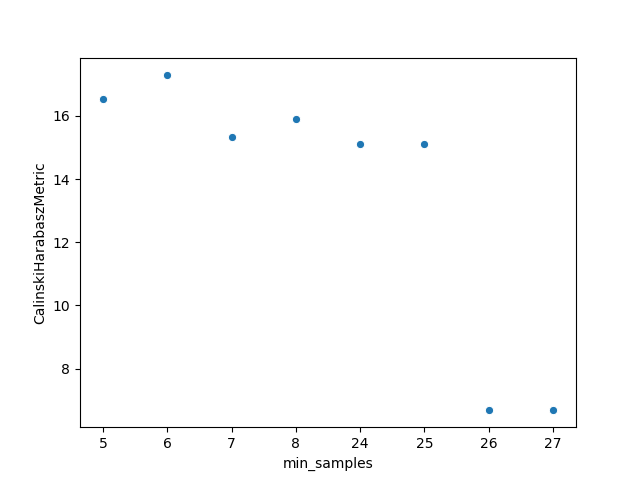
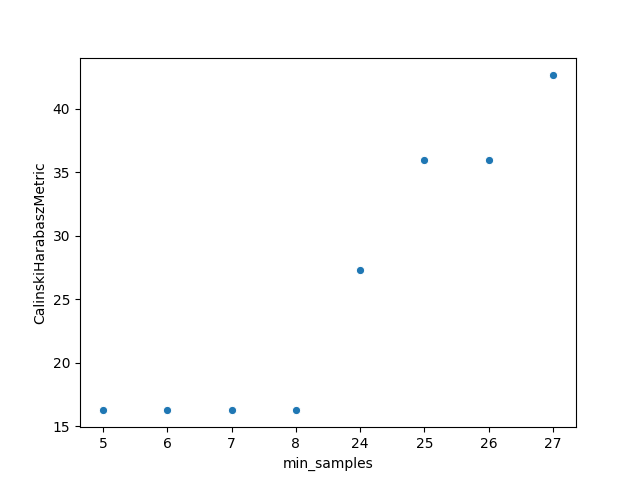
tag2

diff --git a/src/modelProcessing/modelAlgorithms/algorithms/dbscan.py b/src/modelProcessing/modelAlgorithms/algorithms/dbscan.py
@@ -7,11 +7,11 @@ class DBSCAN(AlgorithmBaseGroup):
     def __init__(self, conf):
         super().__init__(conf)
         self.min_samples = int(conf.get_entry('min_samples'))
-        self.leaf_size = int(conf.get_entry('leaf_size'))
+        self.eps = float(conf.get_entry('eps'))
         self.algorithm = conf.get_entry('algorithm')
 
     def train(self):
-        dbscan = sklearn.cluster.DBSCAN(min_samples=self.min_samples, leaf_size=self.leaf_size, algorithm=self.algorithm)
+        dbscan = sklearn.cluster.DBSCAN(min_samples=self.min_samples, eps=self.eps, algorithm=self.algorithm)
         self.dbpred = None
         self.dbpred = dbscan.fit_predict(self.X)
 
